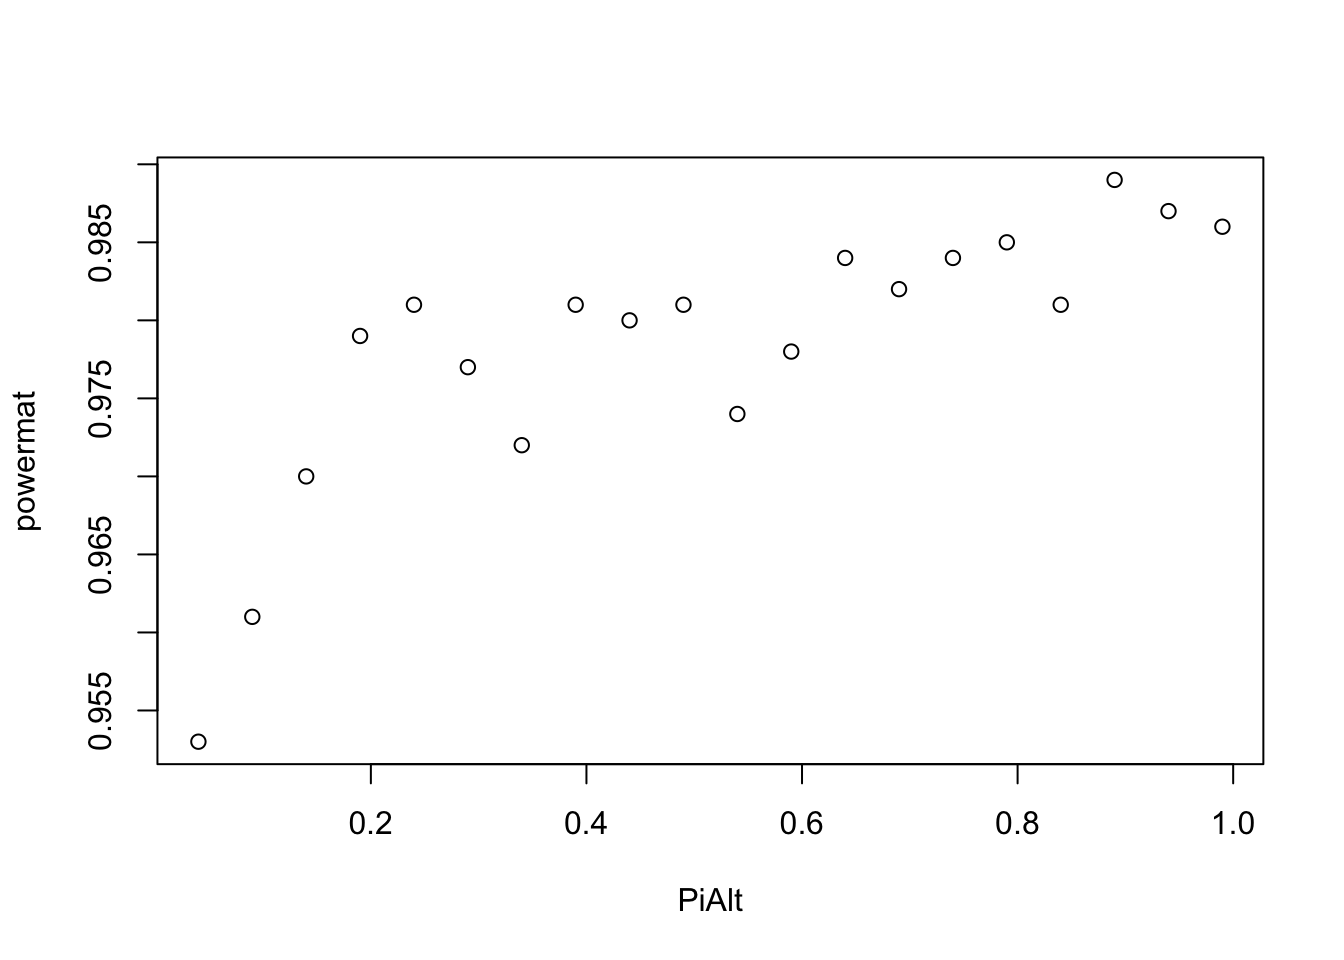
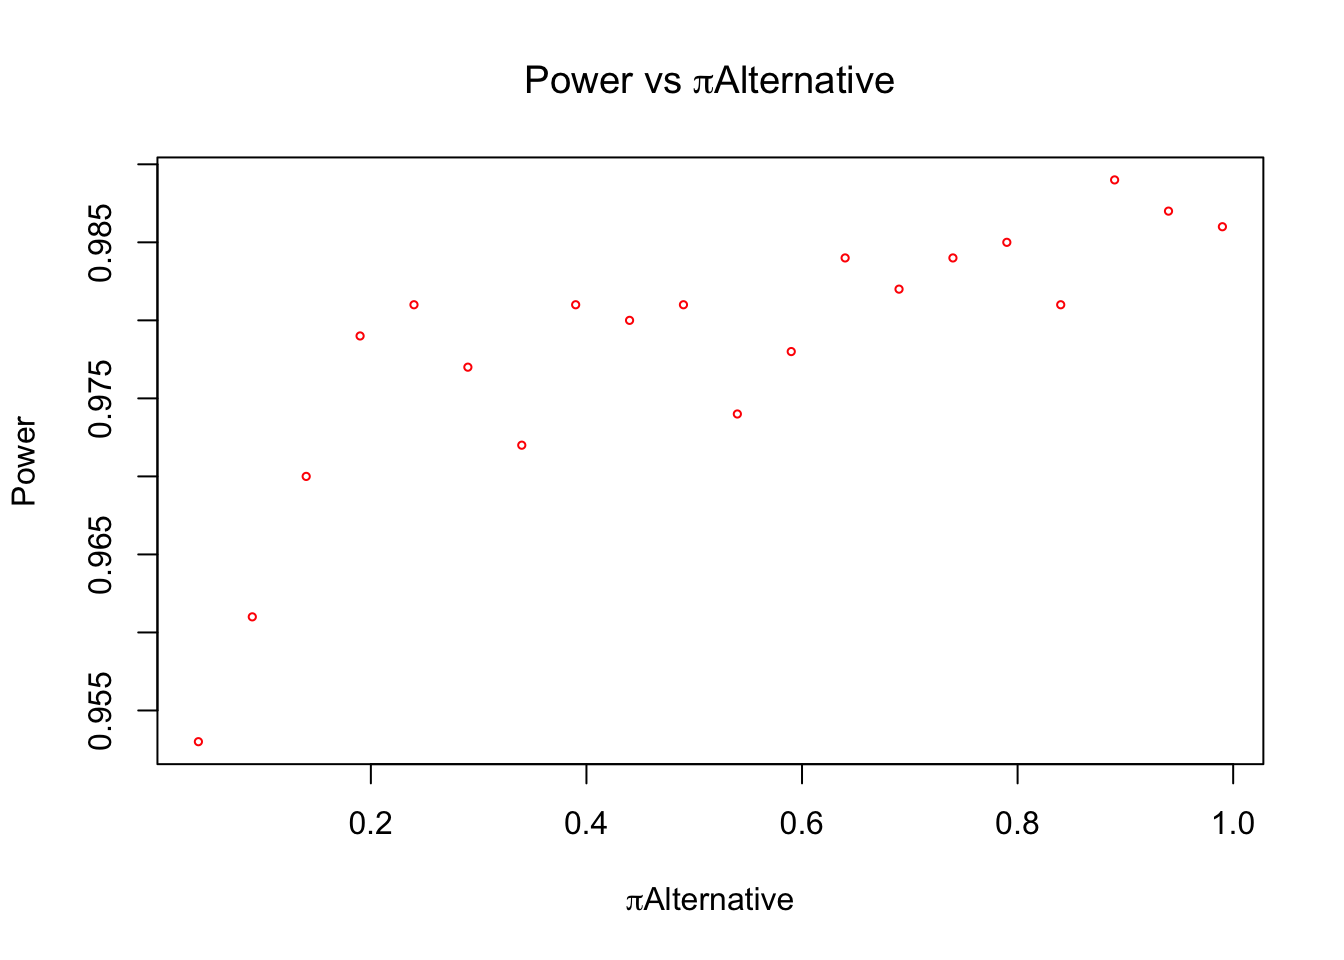
Build site.

diff --git a/docs/power.html b/docs/power.html
@@ -337,7 +337,7 @@ div.section {
 <div class="tab-content">
 <div id="summary" class="tab-pane fade in active">
 <p>
-<strong>Last updated:</strong> 2019-12-26
+<strong>Last updated:</strong> 2019-12-27
 </p>
 <p>
 <strong>Checks:</strong> <span class="glyphicon glyphicon-ok text-success" aria-hidden="true"></span> 6 <span class="glyphicon glyphicon-exclamation-sign text-danger" aria-hidden="true"></span> 1
@@ -452,10 +452,10 @@ analysis
 <div class="panel panel-default">
 <div class="panel-heading">
 <p class="panel-title">
-<a data-toggle="collapse" data-parent="#workflowr-checks" href="#strongRepositoryversionstrongahrefhttpsgithubcomsurbutnejmtree2844087997ebbd424523882938b7a98573e8049etargetblank2844087a"> <span class="glyphicon glyphicon-ok text-success" aria-hidden="true"></span> <strong>Repository version:</strong> <a href="https://github.com/surbut/nejm/tree/2844087997ebbd424523882938b7a98573e8049e" target="_blank">2844087</a> </a>
+<a data-toggle="collapse" data-parent="#workflowr-checks" href="#strongRepositoryversionstrongahrefhttpsgithubcomsurbutnejmtree044a528175f7308ffa5d563640ef924873c422f4targetblank044a528a"> <span class="glyphicon glyphicon-ok text-success" aria-hidden="true"></span> <strong>Repository version:</strong> <a href="https://github.com/surbut/nejm/tree/044a528175f7308ffa5d563640ef924873c422f4" target="_blank">044a528</a> </a>
 </p>
 </div>
[2 lines of base64/hex data omitted]
 <div class="panel-body">
 <p>
 Great! You are using Git for version control. Tracking code development and connecting the code version to the results is critical for reproducibility. The version displayed above was the version of the Git repository at the time these results were generated. <br><br> Note that you need to be careful to ensure that all relevant files for the analysis have been committed to Git prior to generating the results (you can use <code>wflow_publish</code> or <code>wflow_git_commit</code>). workflowr only checks the R Markdown file, but you know if there are other scripts or data files that it depends on. Below is the status of the Git repository when the results were generated:
@@ -472,6 +472,7 @@ Ignored files:
 
 Untracked files:
     Untracked:  code/scripts.R
+    Untracked:  m_eQTL_bma.rds
 
 Unstaged changes:
     Modified:   analysis/pi0.Rmd
@@ -514,6 +515,40 @@ Message
 </tr>
 </thead>
 <tbody>
+<tr>
+<td>
+Rmd
+</td>
+<td>
+<a href="https://github.com/surbut/nejm/blob/044a528175f7308ffa5d563640ef924873c422f4/analysis/power.Rmd" target="_blank">044a528</a>
+</td>
+<td>
+Sarah Urbut
+</td>
+<td>
+2019-12-27
+</td>
+<td>
+wflow_publish(“~/nejm/analysis/power.Rmd”)
+</td>
+</tr>
+<tr>
+<td>
+html
+</td>
+<td>
+<a href="https://rawcdn.githack.com/surbut/nejm/ca446cdc2793bb5c9c6319249e6112dd0cad75d0/docs/power.html" target="_blank">ca446cd</a>
+</td>
+<td>
+Sarah Urbut
+</td>
+<td>
+2019-12-26
+</td>
+<td>
+Build site.
+</td>
+</tr>
 <tr>
 <td>
 Rmd
@@ -575,6 +610,20 @@ wflow_publish(“~/nejm/analysis/power.Rmd”)
 <p>Power Analysis</p>
 <p>We wish to simulate a non-zero logOR in a study with sample size large enough that the effect can be detected at <span class="math inline">\(80%\)</span> in a frequentist analysis. To start with, let’s test a situation in which the logOR is actually 1.2, with a population SD of <span class="math inline">\(0.20\)</span> and a sample size of 100.</p>
 <p>The goal is to test our power to estimate the power to detect a true difference (at say, a 0.05 frequentist <span class="math inline">\(\alpha\)</span> threshold) given that the sampling distribution arises from a mixture normal with <span class="math inline">\(\pi_{0}\)</span> component on a ‘spike’ at 0, and the slab (or 1- <span class="math inline">\(\pi_{0}\)</span> componenet) on an alternative compoenent that quantifies our uncertainty about a non-zero estimate of the underlying logOR.</p>
+<pre class="r"><code>##Simulation of simple power calculation for review, in which we quanitfy the difference between a null and alternaitve distribution and compute how many times the empirical alternative exceeds the rejection region
+mean1=0
+mean2=seq(0.01,2,by=0.10)
+sd=0.2
+null=rnorm(10000,mean1,sd)
+alternative=rnorm(10000,mean2,sd)
+
+
+plot(density(null),xlim=c(-1,3))
+lines(density(alternative))
+abline(v=qnorm(0.975,mean = 0,sd=0.2))
+
+plot(mean2,1-pnorm(qnorm(0.975,mean = 0,sd=sd),mean = mean2,sd=sd))
+abline(h=0)</code></pre>
 <p>In this paper, the standard error <span class="math inline">\(\hat\sigma\)</span> was 0.21. This means that the rejection region that the logOR is significantly different than 0 at an <span class="math inline">\(\alpha\)</span> of 0.05 would be +/- 1.96*0.21 = +/- 0.41.</p>
 <p>We can sample from our posterior at various levels of <span class="math inline">\(\pi\)</span> and <span class="math inline">\(\hat{sigma}\)</span> and compute how often the null is appropriately rejected.</p>
 <p>We should sample from the mixture distribution and determine how many times the <span class="math inline">\(95\%\)</span> credible interval excludes 0 for different choces of <span class="math inline">\(\sigma\)</span> and <span class="math inline">\(\pi\)</span>, assuming that the observed logOR is the true logOR. We thus seek to determine how frequently a values chosen from posterior distribution excludes CI (but is this ok, using a posterior probability for frequentist sampling?)</p>
@@ -671,7 +720,7 @@ test=runSigmasim(dm = dm,dse = dse,pi0=0.5)
 powermat=apply(test,2,function(x){1-mean(x&lt;0.41&amp;x&gt;-0.41)})
 minsig=0.1;maxsig=2;inc=0.05
 sigmas=seq(minsig,maxsig,by=inc)
-plot(sigmas,powermat,xlab=&quot;PriorSigma&quot;, main=expression(&quot;Power vs&quot;, pi0) ,pch=0.1)</code></pre>
+plot(sigmas,powermat,xlab=expression(paste(&quot;Prior &quot;,sigma)), ylab=&quot;Power&quot;, main=expression(paste(&quot;Power vs &quot;, pi,&quot;0&quot;)) ,pch=1,cex=0.5,col=&quot;red&quot;)</code></pre>
 <p><img src="figure/power.Rmd/unnamed-chunk-3-1.png" width="672" style="display: block; margin: auto;" /></p>
 <p>
 <button type="button" class="btn btn-default btn-xs btn-workflowr btn-workflowr-fig" data-toggle="collapse" data-target="#fig-unnamed-chunk-3-1">
@@ -717,7 +766,7 @@ pi0s=seq(0.01,1,by=0.05)##proportional weight on 0 component
 pis=1-pi0s
 simmat=runpisim(dm = dm,dse = dse,priorsd = 0.5)
 powermat=apply(simmat,2,function(x){1-mean(x&lt;0.41&amp;x&gt;-0.41)})
-plot(pis,powermat,xlab=&quot;PiAlt&quot;)</code></pre>
+plot(pis,powermat,xlab=expression(paste(pi,&quot;Alternative&quot;)), ylab=&quot;Power&quot;, main=expression(paste(&quot;Power vs &quot;, pi,&quot;Alternative&quot;)) ,pch=1,cex=0.5,col=&quot;red&quot;)</code></pre>
 <p><img src="figure/power.Rmd/unnamed-chunk-4-1.png" width="672" style="display: block; margin: auto;" /></p>
 <p>
 <button type="button" class="btn btn-default btn-xs btn-workflowr btn-workflowr-fig" data-toggle="collapse" data-target="#fig-unnamed-chunk-4-1">
@@ -760,7 +809,7 @@ Sarah Urbut
 powermat=apply(test,2,function(x){1-mean(x&lt;0.41&amp;x&gt;-0.41)})
 minsig=0.1;maxsig=2;inc=0.05
 sigmas=seq(minsig,maxsig,by=inc)
-plot(sigmas,powermat,xlab=&quot;PriorSigma&quot;, main=expression(&quot;Power vs&quot;, pi0) ,pch=0.1)</code></pre>
+plot(sigmas,powermat,xlab=expression(paste(&quot;Prior &quot;,sigma)), ylab=&quot;Power&quot;, main=expression(paste(&quot;Power vs &quot;, sigma)) ,pch=1,cex=0.5,col=&quot;red&quot;)</code></pre>
 <p><img src="figure/power.Rmd/unnamed-chunk-4-2.png" width="672" style="display: block; margin: auto;" /></p>
 <p>
 <button type="button" class="btn btn-default btn-xs btn-workflowr btn-workflowr-fig" data-toggle="collapse" data-target="#fig-unnamed-chunk-4-2">
